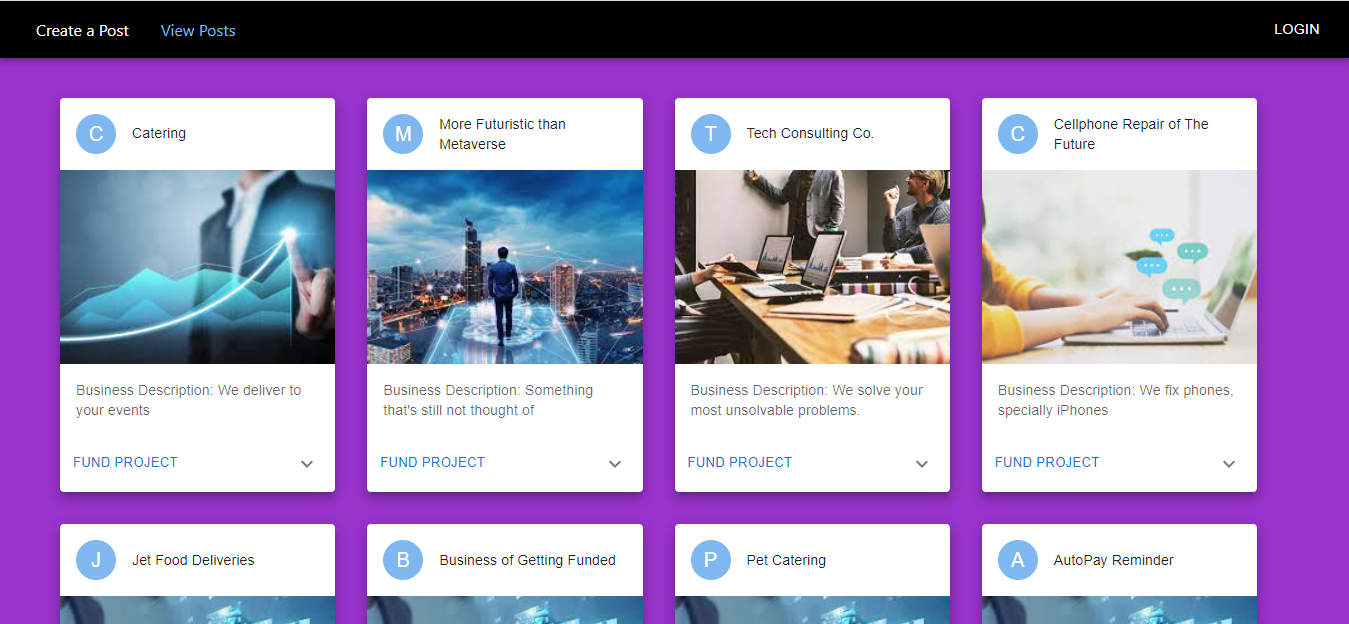
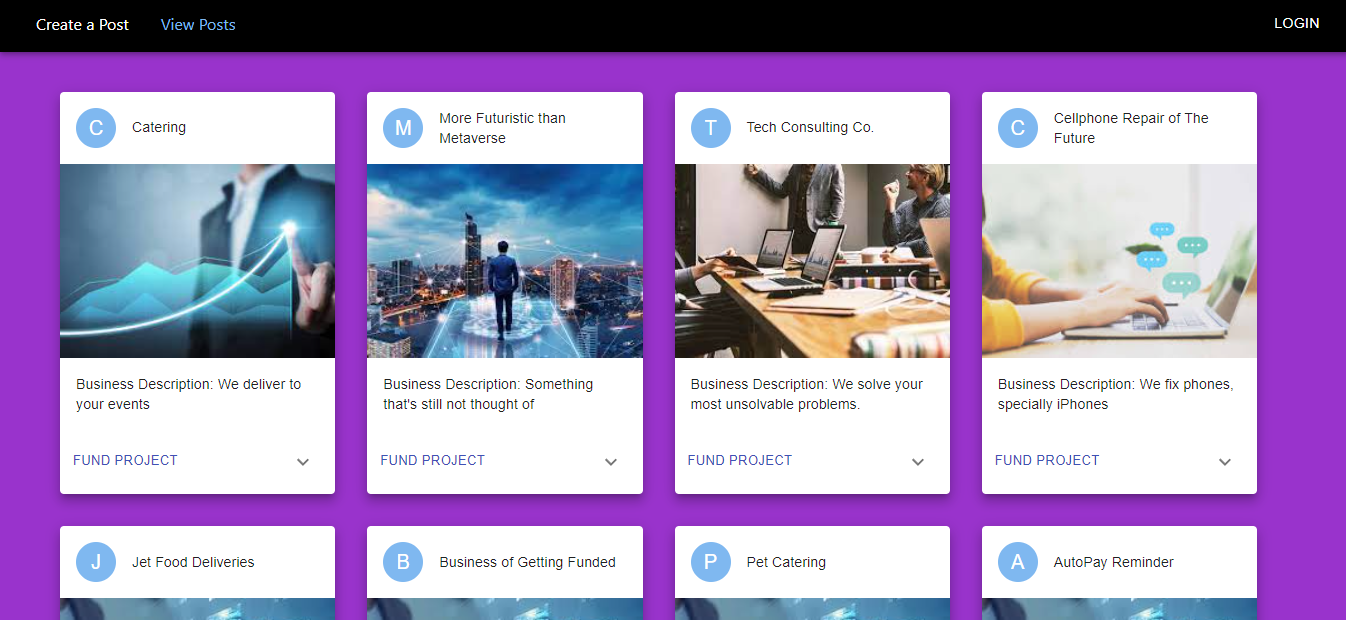
styling updates and README.md file updates

diff --git a/client/src/views/card.jsx b/client/src/views/card.jsx
@@ -1,16 +1,16 @@
 import * as React from 'react';
-import { styled } from '@mui/material/styles';
-import Card from '@mui/material/Card';
-import CardHeader from '@mui/material/CardHeader';
-import CardMedia from '@mui/material/CardMedia';
-import CardContent from '@mui/material/CardContent';
-import CardActions from '@mui/material/CardActions';
-import Collapse from '@mui/material/Collapse';
+import { styled } from '@material-ui/core/styles';
+import Card from '@material-ui/core/Card';
+import CardHeader from '@material-ui/core/CardHeader';
+import CardMedia from '@material-ui/core/CardMedia';
+import CardContent from '@material-ui/core/CardContent';
+import CardActions from '@material-ui/core/CardActions';
+import Collapse from '@material-ui/core/Collapse';
 import Avatar from '@mui/material/Avatar';
-import IconButton from '@mui/material/IconButton';
-import Typography from '@mui/material/Typography';
+import IconButton from '@material-ui/core/IconButton';
+import Typography from '@material-ui/core/Typography';
 import ExpandMoreIcon from '@mui/icons-material/ExpandMore';
-import Button from '@mui/material/Button';
+import Button from '@material-ui/core/Button';
 import { useNavigate } from "react-router-dom";
 
 const ExpandMore = styled((props) => {
@@ -41,7 +41,9 @@ export default function BusinessCard({ index, businessName, businessDescription,
     <Card sx={{ maxWidth: 345 }} raised={true}>
       <CardHeader
         avatar={
-          <Avatar sx={{ bgcolor: "#7FB8F0" }} aria-label="recipe">
+          <Avatar 
+            sx={{ bgcolor: "#7FB8F0" }} 
+            aria-label="recipe">
             {businessName.charAt(0)}
           </Avatar>
         }
@@ -54,7 +56,7 @@ export default function BusinessCard({ index, businessName, businessDescription,
         alt="alt"
       />
       <CardContent>
-        <Typography variant="body2" color="text.secondary">
+        <Typography variant="body2" color="inherit">
           Business Description: {businessDescription}
         </Typography>
       </CardContent>
@@ -62,6 +64,7 @@ export default function BusinessCard({ index, businessName, businessDescription,
         <Button 
           size="small"
           onClick={() => {navigate("/payment-checkout/"+businessName+"/"+index)}}
+          color="primary"
         >Fund Project</Button>
         <ExpandMore
           expand={expanded}

diff --git a/client/src/views/confirm.jsx b/client/src/views/confirm.jsx
@@ -1,7 +1,7 @@
 import React from 'react';
-import MuiThemeProvider from 'material-ui/styles/MuiThemeProvider';
+import { MuiThemeProvider, createTheme } from '@material-ui/core/styles';
 import { List, ListItem, ListItemText } from '@material-ui/core';
-import Button from '@mui/material/Button';
+import Button from '@material-ui/core/Button';
 import '../content/formStyle.css';
 import { processForm } from '../controllers/processForm.ts';
 
@@ -23,9 +23,10 @@ class FormConfirm extends React.Component {
 
     render() { 
         const { values: { businessName, businessDescription, businessInspiration } } = this.props;
+        const theme = createTheme()
 
         return ( 
-            <MuiThemeProvider>
+            <MuiThemeProvider theme={theme}>
                     <div className='form-header'>
                         <h1>Please Confirm Business Information</h1>
                     </div>
@@ -59,12 +60,14 @@ class FormConfirm extends React.Component {
                             label="Confirm & Continue"
                             onClick={this.continue}
                             variant="contained"
+                            color="primary"
                         >Confirm & Continue</Button>
                         <Button
                             label="Back"
                             onClick={this.back}
                             variant="contained"
                             style={styles.button}
+                            color="primary"
                         >Back</Button>
                     </div>
             </MuiThemeProvider>

diff --git a/client/src/views/paymentCheckout.jsx b/client/src/views/paymentCheckout.jsx
@@ -1,12 +1,12 @@
 import { useParams } from 'react-router';
-import Button from '@mui/material/Button';
+import Button from '@material-ui/core/Button';
 import { useState } from "react";
 import { loadStripe } from "@stripe/stripe-js";
-import Grid from '@mui/material/Grid';
-import Card from '@mui/material/Card';
-import CardHeader from '@mui/material/CardHeader';
-import CardMedia from '@mui/material/CardMedia';
-import CardActions from '@mui/material/CardActions';
+import Grid from '@material-ui/core/Grid';
+import Card from '@material-ui/core/Card';
+import CardHeader from '@material-ui/core/CardHeader';
+import CardMedia from '@material-ui/core/CardMedia';
+import CardActions from '@material-ui/core/CardActions';
 
 
 let stripePromise
@@ -66,6 +66,7 @@ export default function PaymentCheckout() {
                             onClick={ProcessCheckout}
                             disabled={isLoading}
                             variant="contained"
+                            color="primary"
                         >{isLoading ? "Loading..." : "Make a Payment"}</Button>
                     </CardActions>
                 </Card>

diff --git a/client/src/views/formBusinessDesc.jsx b/client/src/views/formBusinessDesc.jsx
@@ -1,7 +1,7 @@
 import React from 'react';
 import { MuiThemeProvider, createTheme } from '@material-ui/core/styles';
 import TextField from '@material-ui/core/TextField';
-import Button from '@mui/material/Button';
+import Button from '@material-ui/core/Button';
 import '../content/formStyle.css';
 
 class FormBusinessDesc extends React.Component {
@@ -41,12 +41,14 @@ class FormBusinessDesc extends React.Component {
                             label="Continue"
                             onClick={this.continue}
                             variant="contained"
+                            color="primary"
                         >Continue</Button>
                         <Button
                             label="Back"
                             onClick={this.back}
                             variant="contained"
                             style={styles.button}
+                            color="primary"
                         >Back</Button>
                     </div>
             </MuiThemeProvider>

diff --git a/client/src/views/formBusinessInsp.jsx b/client/src/views/formBusinessInsp.jsx
@@ -1,7 +1,7 @@
 import React from 'react';
 import { MuiThemeProvider, createTheme } from '@material-ui/core/styles';
 import TextField from '@material-ui/core/TextField';
-import Button from '@mui/material/Button';
+import Button from '@material-ui/core/Button';
 import '../content/formStyle.css';
 
 class FormBusinessInsp extends React.Component {
@@ -40,12 +40,14 @@ class FormBusinessInsp extends React.Component {
                         <Button
                             label="Continue"
                             onClick={this.continue}
+                            color="primary"
                             variant="contained"
                         >Continue</Button>
                         <Button
                             label="Back"
                             onClick={this.back}
                             variant="contained"
+                            color="primary"
                             style={styles.button}
                         >Back</Button>
                     </div>

diff --git a/client/src/views/formBusinessName.jsx b/client/src/views/formBusinessName.jsx
@@ -1,7 +1,7 @@
 import React from 'react';
 import { MuiThemeProvider, createTheme } from '@material-ui/core/styles';
 import TextField from '@material-ui/core/TextField';
-import Button from '@mui/material/Button';
+import Button from '@material-ui/core/Button';
 import '../content/formStyle.css';
 
 class FormBusinessName extends React.Component {
@@ -35,6 +35,7 @@ class FormBusinessName extends React.Component {
                             label="Continue"
                             onClick={this.continue}
                             variant="contained"
+                            color="primary"
                         >Continue</Button>
                     </div>
             </MuiThemeProvider>

diff --git a/client/src/views/navbar.jsx b/client/src/views/navbar.jsx
@@ -1,7 +1,7 @@
 import * as React from 'react';
-import AppBar from '@mui/material/AppBar';
-import Box from '@mui/material/Box';
-import Button from '@mui/material/Button';
+import AppBar from '@material-ui/core/AppBar';
+import Box from '@material-ui/core/Box';
+import Button from '@material-ui/core/Button';
 import {Nav, NavLink, NavMenu} from '../content/navbarElements';
 
 export default function Navbar() {

diff --git a/client/src/views/paymentSuccess.jsx b/client/src/views/paymentSuccess.jsx
@@ -1,5 +1,5 @@
-import Box from '@mui/material/Box';
-import Grid from '@mui/material/Grid';
+import Box from '@material-ui/core/Box';
+import Grid from '@material-ui/core/Grid';
 
 const PaymentSuccess = () => {
     return (
@@ -20,6 +20,7 @@ export default PaymentSuccess;
 
 const styles = {
     gridContainer: {
-        textAlign: 'center'
+        textAlign: 'center',
+        width: '100%'
     },
 }

diff --git a/client/src/views/paymentCancel.jsx b/client/src/views/paymentCancel.jsx
@@ -1,5 +1,5 @@
-import Box from '@mui/material/Box';
-import Grid from '@mui/material/Grid';
+import Box from '@material-ui/core/Box';
+import Grid from '@material-ui/core/Grid';
 
 const PaymentCancel = () => {
     return (
@@ -20,6 +20,7 @@ export default PaymentCancel;
 
 const styles = {
     gridContainer: {
-        textAlign: 'center'
+        textAlign: 'center',
+        width: '100%'
     },
 }

diff --git a/README.md b/README.md
@@ -1,32 +1,30 @@
 # kickstarter_platform_app
 
 ## Overview of the web application
-This is a web application where entrepreneurs can create posts for their businesses or products and investors can view their posts and fund them. The 3rd party API that is used for the payment processing is Stripe.
+This is a web application that allows entrepreneurs to create a post for their business or product to showcase to investors who can view their posts and fund them. The 3rd party API that is used for the payment processing is Stripe.
 
 ## Instructions to install and start the app
-1. In the server directory, run:
+1. In the server directory, run: (This will run Nodejs)
 ```
 npm install
 ```
 ```
 npm start
 ```
-This will run Nodejs.
 
-2. In the client directory, run:
+2. In the client directory, run: (This will start the react app)
 ```
 npm install
 ```
 ```
 npm start
 ```
-This will start the react app.
 
-## App's overall architecture pattern
-The architure pattern used in this app is MVC (Model, Views, Controllers) pattern. With this pattern, all the components consisting of the rendered HTML are inside the views directory. All the methods and logic are inside the controllers directory. The server side code is implemented inside server directory.
+## App's overall architectural pattern
+The architural pattern used in this app is MVC (Models, Views, Controllers) pattern. With this pattern, all the components consisting of the rendered HTML are inside the views directory. All the methods and logic are inside the controllers directory. The server side code is implemented inside the server directory.
 
 ## Expected payload and responses for a REST API
-The /save-form-values API route is a POST REST API that will save the post values into the Postgres database. The payload is an object with the Business Name, Business Description, and Business Inspiration. An example would look like this:
+The /save-form-values API route is a POST REST API that will save the user's input values into the Postgres database. The payload is an object with the Business Name, Business Description, and Business Inspiration. An example payload would look like this:
 
 ```
 {
@@ -40,19 +38,19 @@ The response for this REST API is a string 'Success' if the save crud operation 
 
 ## Distinct design decisions with screenshots
 
-When application first opens, it renders the PostForm component. PostForm consist of a parent state that holds the step state that is used to determine which step of the form to render.
+When application first opens, it renders the PostForm component. PostForm consist of a component level state that sets the step data. Step value is used to determine which child component (which step in the form) to render.
 
 The first step is entering the Business Name. That is rendered by FormBusinessName component, second step is entering business description that is rendered by FormBusinessDesc, and the third step is entering the business inspiration which is rendered by FormBusinessInsp component. All three components are shown in the below screenshots.
 ![alt text](https://github.com/aidapira/kickstarter_platform_app/blob/master/create_post1.PNG?raw=true)
 ![alt text](https://github.com/aidapira/kickstarter_platform_app/blob/master/create_post2.PNG?raw=true)
 ![alt text](https://github.com/aidapira/kickstarter_platform_app/blob/master/create_post3.PNG?raw=true)
 
-Since the values are stored in parent component's state variable, on clicking on the Back button, the textfields will be prepopulated by the previously entered values.
+Since the user's input values are set in parent component's state, on clicking on the Back button, the textfields will be prepopulated by the previously entered values.
 Once user enters all values, the fourth step is confirmation. FormConfirm component renders the confirmation page which lists the user's input.
 
 ![alt text](https://github.com/aidapira/kickstarter_platform_app/blob/master/create_post4.PNG?raw=true)
 
-When user confirms their inputs, their data gets saved to the Postgres database and they get redirected to a page that lets the user know their post was created successfully and allows them to see the posts by clicking on a see posts button. When user clicks on the button, they will see their post on the view posts page.
+When user confirms their inputs, their answers get saved in the Postgres database and they get redirected to a page that lets the user know their post was created successfully and allows them to see the posts by clicking on a see posts button. When user clicks on the button, they will see their post on the view posts page.
 ![alt text](https://github.com/aidapira/kickstarter_platform_app/blob/master/post_confirmation.PNG?raw=true)
 
 View Posts page is rendered by ViewPosts componenet that consists of expandable cards. Each card is a post created by a user. The cards contain the business's name, description, and when user expands the card, they see the business's inspiration. The next two screenshots show cards, and an expanded card.
@@ -62,7 +60,7 @@ View Posts page is rendered by ViewPosts componenet that consists of expandable 
 The way an investor can make a payment is by clicking on FUND PROJECT button on a card. This will take them to PaymentCheckout component that shows the business name, their image, and a call to action button to MAKE A PAYMENT.
 ![alt text](https://github.com/aidapira/kickstarter_platform_app/blob/master/make_payment_page.PNG?raw=true)
 
-When user clicks on MAKE A PAYMENT button, they are rerouted to Stripe checkout page using the Stripe checkout API. If user clicks back, they will be rerouted to /payment-cancel route that renders the PaymentCancel component. If user completes the payment information and payment is processed successfully, they will be rerouted to /payment-success route which renders PaymentSuccess comopenent.
+When user clicks on MAKE A PAYMENT button, they are redirected to Stripe checkout page using the Stripe checkout API. If user clicks back, they will be redirected to /payment-cancel route that renders the PaymentCancel component. If user completes the payment information and payment is processed successfully, they will be redirected to /payment-success route which renders PaymentSuccess comopenent.
 ![alt text](https://github.com/aidapira/kickstarter_platform_app/blob/master/stripe_checkout_page.PNG?raw=true)
 ![alt text](https://github.com/aidapira/kickstarter_platform_app/blob/master/cancel_payment_page.PNG?raw=true)
 ![alt text](https://github.com/aidapira/kickstarter_platform_app/blob/master/payment_success_page.PNG?raw=true)
@@ -70,5 +68,12 @@ When user clicks on MAKE A PAYMENT button, they are rerouted to Stripe checkout 
 ## Use of reusable components
 The BusinessCard component is a reusable component. It renders one card. ViewPosts component fetches the data from the database and loops through the array of the returned data to render all the cards in the /view-posts page.
 
+## UI components used
+In this application, components from @material-ui/core are used. Some examples are:
+- AppBar: used in the Navbar component
+- Box: is used in PaymentSuccess comp
+- Button: used often in the application to render the call to action buttons
+- Grid: the main styling component of the view posts component to place the cards on the page
+- TextField: an example is in the create post, every step uses TextField to enter the values
 ## URL of hosted application
 https://kickstarter-platform-app.herokuapp.com/create-posts
